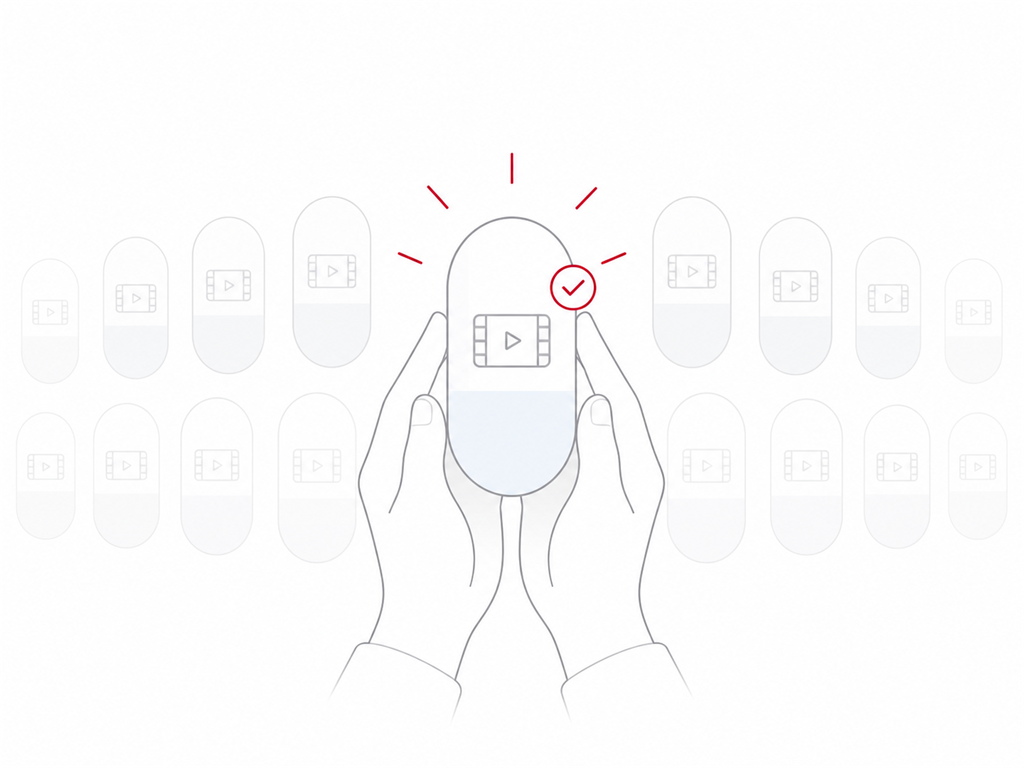
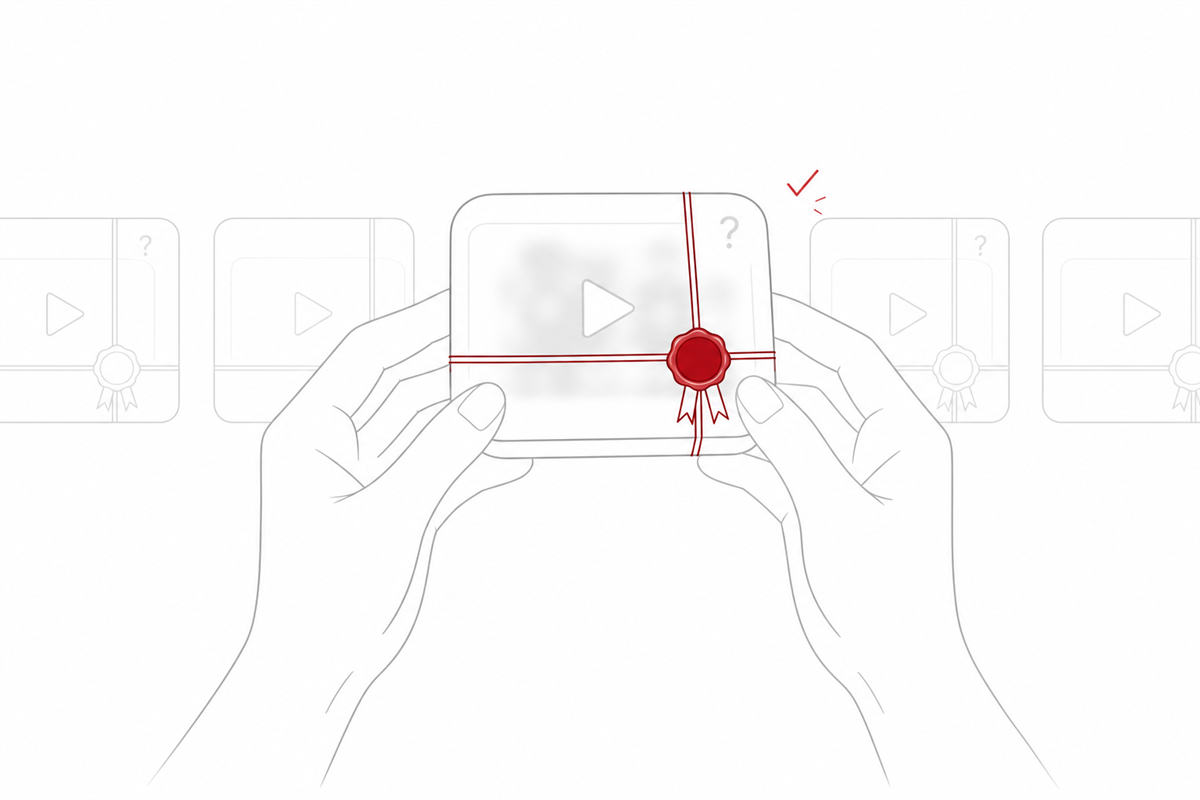
03 iGrow: カプセル/ガチャのビジュアル除去（mock+comparison再生成／語0）

diff --git a/lp_variants/03_igrow_rakuten/index.html b/lp_variants/03_igrow_rakuten/index.html
@@ -352,8 +352,8 @@ footer{background:var(--bg-grey);padding:44px 0;border-top:1px solid var(--line)
       <div class="cell">
         <svg class="ico" viewBox="0 0 24 24"><circle cx="12" cy="12" r="9"/><path d="M12 8v4l2 2"/></svg>
         <div class="n">02</div>
-        <div class="h">中身は運しだい</div>
-        <div class="b">当日スマホで撮るだけ。何が映るかは届くまでわかりません。仕組みそのものがガチャになっています。</div>
+        <div class="h">中身は届くまで分からない</div>
+        <div class="b">当日スマホで撮るだけ。何が映るかは、封を開けて受け取るまで分かりません。だからこそ届いた瞬間の楽しみがあります。</div>
       </div>
       <div class="cell">
         <svg class="ico" viewBox="0 0 24 24"><path d="M12 2l2.4 4.9 5.4.8-3.9 3.8.9 5.4L12 14.8 7.2 17.7l.9-5.4L4.2 8.7l5.4-.8z"/></svg>
@@ -475,7 +475,7 @@ footer{background:var(--bg-grey);padding:44px 0;border-top:1px solid var(--line)
             <div class="s-status"><span>9:41</span><span>Lapsell</span></div>
             <div class="s-head"><div class="t">あなたの区間が届きました</div><div class="d">タップして開けてください</div></div>
             <div class="s-body" style="align-items:center;justify-content:center">
-              <img src="assets/mock_capsule.png" alt="開封前のカプセル" style="width:150px;height:auto;margin:auto">
+              <img src="assets/mock_capsule.png" alt="封をされた、開封前の動画クリップ" style="width:150px;height:auto;margin:auto">
             </div>
             <div class="s-cta">開ける</div>
           </div>
@@ -557,7 +557,7 @@ footer{background:var(--bg-grey);padding:44px 0;border-top:1px solid var(--line)
         <div class="l">国内の関連市場規模</div>
         <div class="bar-row">
           <div class="bar-item">
-            <div class="top"><span>デジタルガチャ</span><span class="v">約7,000億円</span></div>
+            <div class="top"><span>ランダムデジタルグッズ</span><span class="v">約7,000億円</span></div>
             <div class="bar-track"><div class="bar-fill" style="width:100%"></div></div>
           </div>
           <div class="bar-item">